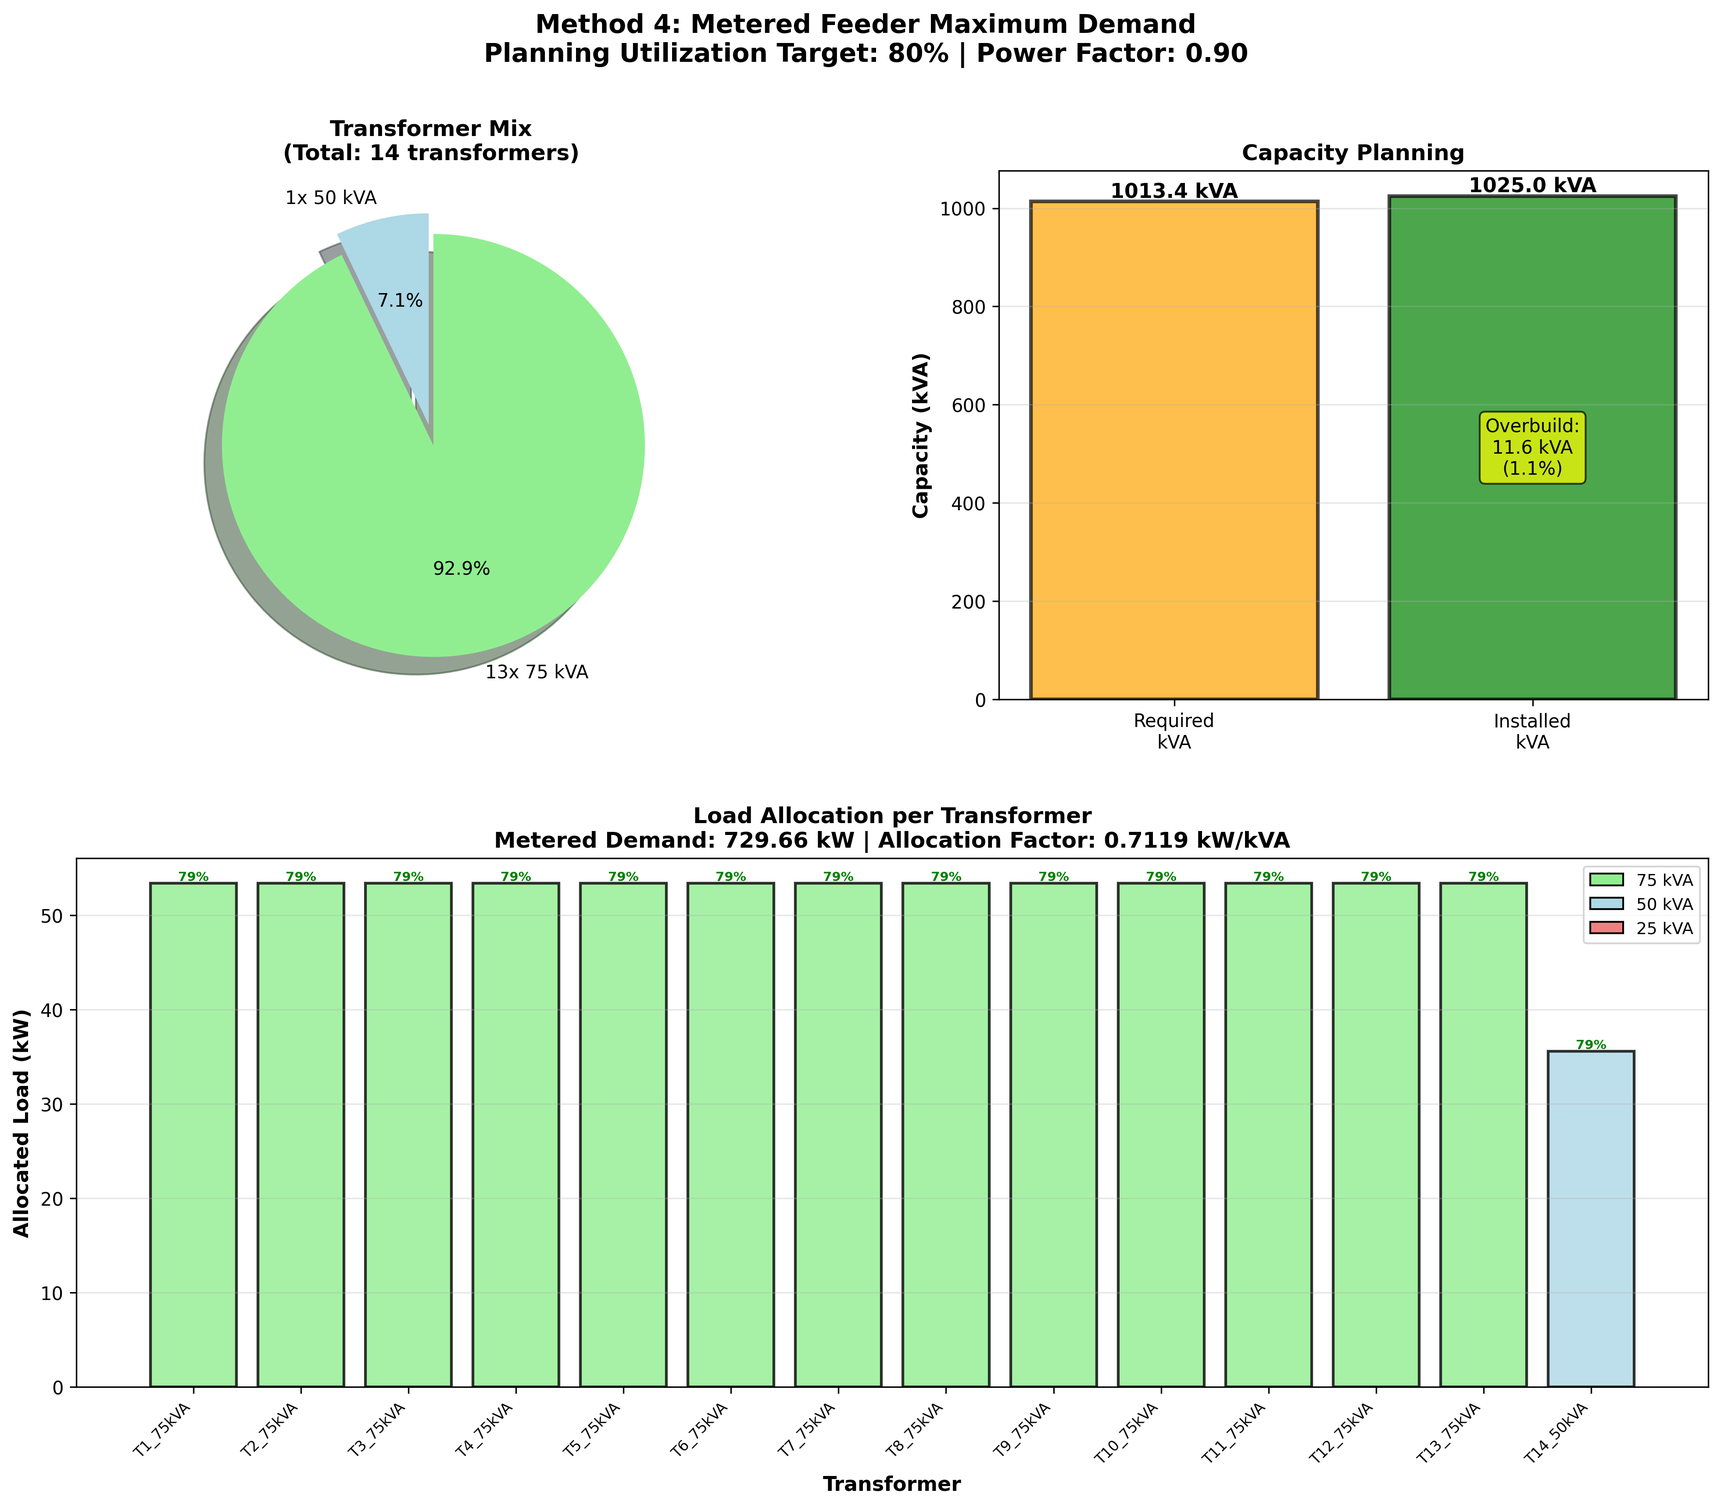
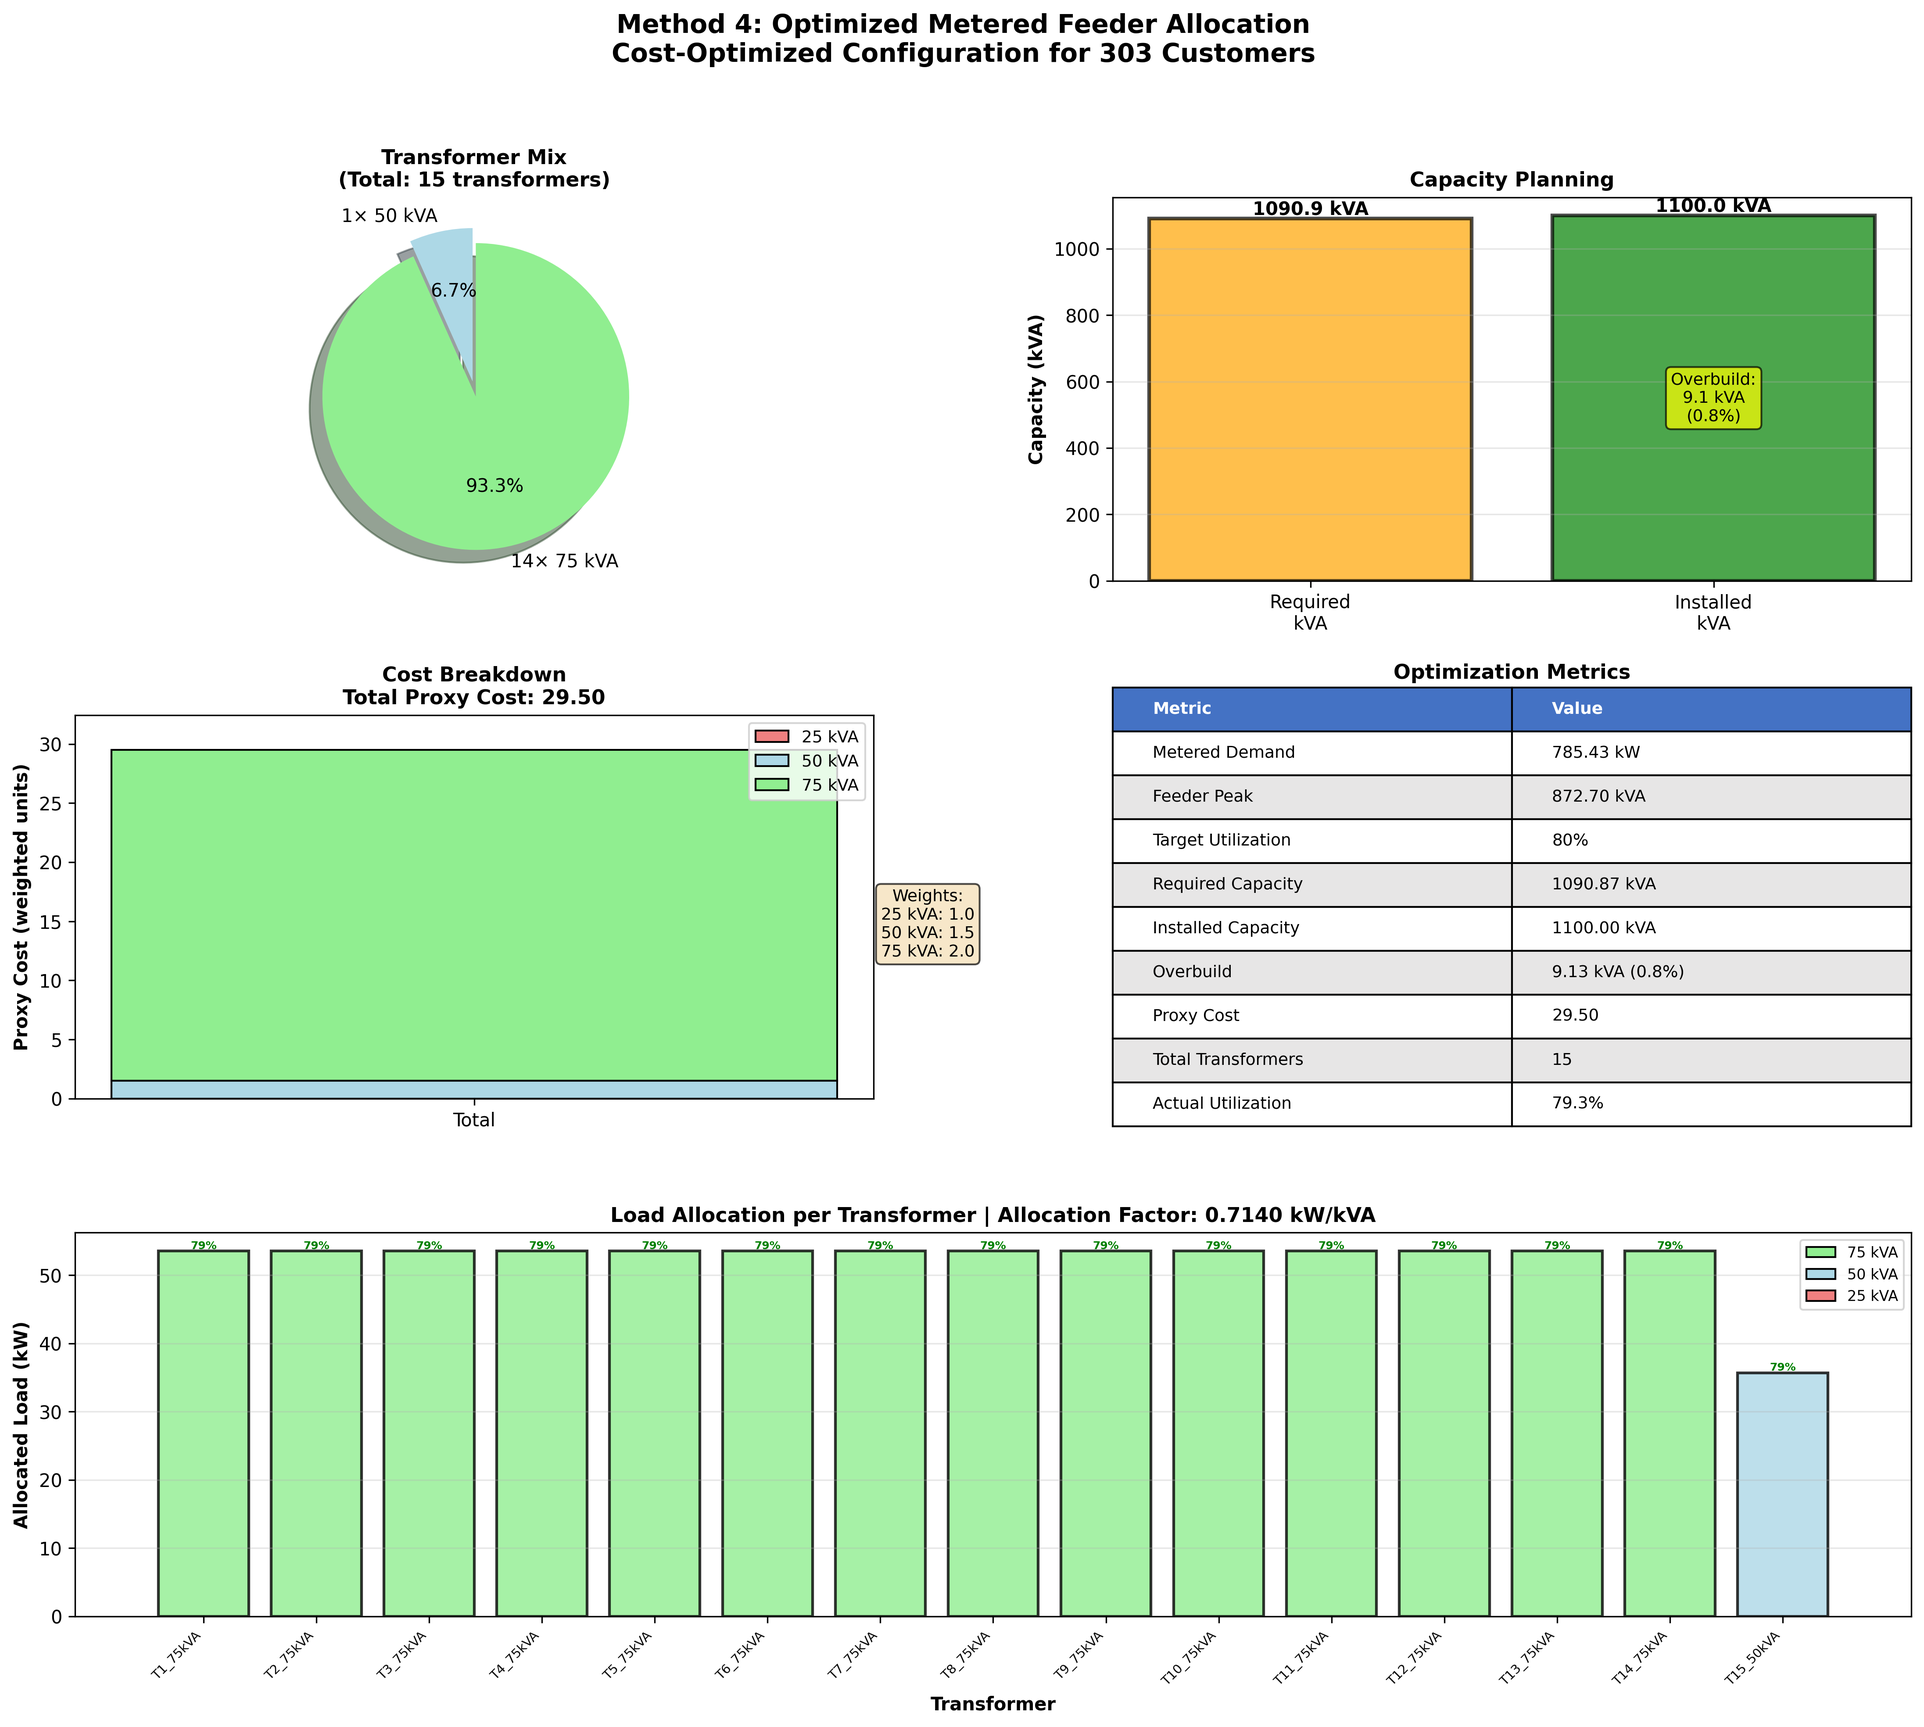
I tried adding weights in the api script but the results didn't change much. Revert back to the last comment the next time you work on this again

diff --git a/resstock_2025/plots.py b/resstock_2025/plots.py
@@ -259,7 +259,7 @@ def transformer_load_management_plot (data, regr_results):
 
 def plot_method4_allocation(plan_file, allocation_file, summary_file):
     """
-    Plot Method 4: Metered Feeder Allocation with Optimization
+    Plot Method 4: Metered Feeder Allocation with Cost Optimization
     
     Args:
         plan_file: path to method4_transformer_plan.csv
@@ -272,24 +272,43 @@ def plot_method4_allocation(plan_file, allocation_file, summary_file):
     allocation_df = pd.read_csv(allocation_file)
     summary_df = pd.read_csv(summary_file)
     
-    # Create figure with 4 subplots
-    fig = plt.figure(figsize=(16, 12))
-    gs = fig.add_gridspec(2, 2, hspace=0.3, wspace=0.3)
+    # Create figure with 5 subplots
+    fig = plt.figure(figsize=(18, 14))
+    gs = fig.add_gridspec(3, 2, hspace=0.35, wspace=0.3)
     
-    ax1 = fig.add_subplot(gs[0, 0])  # Top left
-    ax2 = fig.add_subplot(gs[0, 1])  # Top right
-    ax3 = fig.add_subplot(gs[1, :])  # Bottom, full width
+    ax1 = fig.add_subplot(gs[0, 0])  # Top left - Pie chart
+    ax2 = fig.add_subplot(gs[0, 1])  # Top right - Capacity
+    ax3 = fig.add_subplot(gs[1, 0])  # Middle left - Cost breakdown
+    ax4 = fig.add_subplot(gs[1, 1])  # Middle right - Optimization metrics
+    ax5 = fig.add_subplot(gs[2, :])  # Bottom - Allocations
+    
+    # Extract key values
+    n_25 = plan_df['n_25kva'].iloc[0]
+    n_50 = plan_df['n_50kva'].iloc[0]
+    n_75 = plan_df['n_75kva'].iloc[0]
+    
+    required_kva = plan_df['required_installed_kva'].iloc[0]
+    installed_kva = plan_df['installed_kva'].iloc[0]
+    overbuild_kva = plan_df['overbuild_kva'].iloc[0]
+    proxy_cost = plan_df['proxy_cost'].iloc[0]
+    metered_kw = plan_df['metered_demand_kw'].iloc[0]
+    pf = plan_df['pf'].iloc[0]
+    uf_target = plan_df['uf_target'].iloc[0]
+    
+    # Parse weights from string if needed
+    weights_str = plan_df['weights'].iloc[0]
+    if isinstance(weights_str, str):
+        import ast
+        weights = ast.literal_eval(weights_str)
+    else:
+        weights = {25.0: 1.0, 50.0: 2.2, 75.0: 3.6}  # Default
     
     # ============================================================
     # Plot 1: Transformer Mix (Pie Chart)
     # ============================================================
     
-    n_25 = plan_df['n_25kva'].iloc[0]
-    n_50 = plan_df['n_50kva'].iloc[0]
-    n_75 = plan_df['n_75kva'].iloc[0]
-    
     sizes = [n_25, n_50, n_75]
-    labels = [f'{n_25}x 25 kVA', f'{n_50}x 50 kVA', f'{n_75}x 75 kVA']
+    labels = [f'{n_25}× 25 kVA', f'{n_50}× 50 kVA', f'{n_75}× 75 kVA']
     colors = ['lightcoral', 'lightblue', 'lightgreen']
     explode = (0.05, 0.05, 0.05)
     
@@ -302,17 +321,11 @@ def plot_method4_allocation(plan_file, allocation_file, summary_file):
     ax1.pie(non_zero_sizes, labels=non_zero_labels, colors=non_zero_colors,
             autopct='%1.1f%%', explode=non_zero_explode, shadow=True, startangle=90)
     ax1.set_title(f'Transformer Mix\n(Total: {n_25 + n_50 + n_75} transformers)', 
-                  fontweight='bold', fontsize=12)
+                  fontweight='bold', fontsize=11)
     
     # ============================================================
     # Plot 2: Capacity Overview (Bar Chart)
     # ============================================================
-    
-    required_kva = plan_df['required_installed_kva'].iloc[0]
-    installed_kva = plan_df['installed_kva'].iloc[0]
-    overbuild_kva = plan_df['overbuild_kva'].iloc[0]
-    metered_kw = plan_df['metered_demand_kw'].iloc[0]
-    pf = plan_df['pf'].iloc[0]
     
     categories = ['Required\nkVA', 'Installed\nkVA']
     values = [required_kva, installed_kva]
@@ -321,25 +334,85 @@ def plot_method4_allocation(plan_file, allocation_file, summary_file):
     bars = ax2.bar(categories, values, color=colors_bar, edgecolor='black', 
                    linewidth=2, alpha=0.7)
     
-    # Add value labels on bars
     for bar, val in zip(bars, values):
         height = bar.get_height()
         ax2.text(bar.get_x() + bar.get_width()/2., height,
                 f'{val:.1f} kVA',
-                ha='center', va='bottom', fontweight='bold', fontsize=11)
+                ha='center', va='bottom', fontweight='bold', fontsize=10)
     
-    # Add overbuild annotation
     ax2.text(1, installed_kva * 0.5, 
              f'Overbuild:\n{overbuild_kva:.1f} kVA\n({overbuild_kva/required_kva*100:.1f}%)',
-             ha='center', va='center', fontsize=10,
+             ha='center', va='center', fontsize=9,
              bbox=dict(boxstyle='round', facecolor='yellow', alpha=0.7))
     
-    ax2.set_ylabel('Capacity (kVA)', fontweight='bold', fontsize=11)
-    ax2.set_title('Capacity Planning', fontweight='bold', fontsize=12)
+    ax2.set_ylabel('Capacity (kVA)', fontweight='bold', fontsize=10)
+    ax2.set_title('Capacity Planning', fontweight='bold', fontsize=11)
     ax2.grid(axis='y', alpha=0.3)
     
     # ============================================================
-    # Plot 3: Individual Transformer Allocations (Bar Chart)
+    # Plot 3: Cost Breakdown (Stacked Bar)
+    # ============================================================
+    
+    cost_25 = n_25 * weights[25.0]
+    cost_50 = n_50 * weights[50.0]
+    cost_75 = n_75 * weights[75.0]
+    
+    ax3.bar('Total', cost_25, color='lightcoral', label='25 kVA', edgecolor='black')
+    ax3.bar('Total', cost_50, bottom=cost_25, color='lightblue', label='50 kVA', edgecolor='black')
+    ax3.bar('Total', cost_75, bottom=cost_25+cost_50, color='lightgreen', label='75 kVA', edgecolor='black')
+    
+    ax3.set_ylabel('Proxy Cost (weighted units)', fontweight='bold', fontsize=10)
+    ax3.set_title(f'Cost Breakdown\nTotal Proxy Cost: {proxy_cost:.2f}', 
+                  fontweight='bold', fontsize=11)
+    ax3.legend(loc='upper right', fontsize=9)
+    ax3.set_ylim([0, proxy_cost * 1.1])
+    
+    # Add cost weights as text
+    weights_text = f"Weights:\n25 kVA: {weights[25.0]:.1f}\n50 kVA: {weights[50.0]:.1f}\n75 kVA: {weights[75.0]:.1f}"
+    ax3.text(0.5, proxy_cost * 0.5, weights_text,
+             ha='center', va='center', fontsize=9,
+             bbox=dict(boxstyle='round', facecolor='wheat', alpha=0.7))
+    
+    # ============================================================
+    # Plot 4: Optimization Metrics (Table-style)
+    # ============================================================
+    
+    ax4.axis('off')
+    
+    metrics_data = [
+        ['Metric', 'Value'],
+        ['Metered Demand', f'{metered_kw:.2f} kW'],
+        ['Feeder Peak', f'{metered_kw/pf:.2f} kVA'],
+        ['Target Utilization', f'{uf_target*100:.0f}%'],
+        ['Required Capacity', f'{required_kva:.2f} kVA'],
+        ['Installed Capacity', f'{installed_kva:.2f} kVA'],
+        ['Overbuild', f'{overbuild_kva:.2f} kVA ({overbuild_kva/required_kva*100:.1f}%)'],
+        ['Proxy Cost', f'{proxy_cost:.2f}'],
+        ['Total Transformers', f'{n_25 + n_50 + n_75}'],
+        ['Actual Utilization', f'{(metered_kw/pf)/installed_kva*100:.1f}%']
+    ]
+    
+    table = ax4.table(cellText=metrics_data, cellLoc='left', loc='center',
+                     colWidths=[0.5, 0.5])
+    table.auto_set_font_size(False)
+    table.set_fontsize(9)
+    table.scale(1, 2)
+    
+    # Style header row
+    for i in range(2):
+        table[(0, i)].set_facecolor('#4472C4')
+        table[(0, i)].set_text_props(weight='bold', color='white')
+    
+    # Alternate row colors
+    for i in range(1, len(metrics_data)):
+        for j in range(2):
+            if i % 2 == 0:
+                table[(i, j)].set_facecolor('#E7E6E6')
+    
+    ax4.set_title('Optimization Metrics', fontweight='bold', fontsize=11, pad=20)
+    
+    # ============================================================
+    # Plot 5: Individual Transformer Allocations
     # ============================================================
     
     transformer_ids = allocation_df['transformer_id'].tolist()
@@ -347,30 +420,28 @@ def plot_method4_allocation(plan_file, allocation_file, summary_file):
     utilizations = allocation_df['utilization_factor'].tolist()
     kva_ratings = allocation_df['kva_rating'].tolist()
     
-    # Color by transformer size
     bar_colors = ['lightcoral' if kva == 25.0 else 'lightblue' if kva == 50.0 else 'lightgreen' 
                   for kva in kva_ratings]
     
-    bars3 = ax3.bar(range(len(transformer_ids)), allocated_kw, color=bar_colors,
+    bars5 = ax5.bar(range(len(transformer_ids)), allocated_kw, color=bar_colors,
                     edgecolor='black', linewidth=1.5, alpha=0.8)
     
-    ax3.set_xlabel('Transformer', fontweight='bold', fontsize=11)
-    ax3.set_ylabel('Allocated Load (kW)', fontweight='bold', fontsize=11)
-    ax3.set_title(f'Load Allocation per Transformer\n'
-                  f'Metered Demand: {metered_kw:.2f} kW | '
+    ax5.set_xlabel('Transformer', fontweight='bold', fontsize=10)
+    ax5.set_ylabel('Allocated Load (kW)', fontweight='bold', fontsize=10)
+    ax5.set_title(f'Load Allocation per Transformer | '
                   f'Allocation Factor: {metered_kw/installed_kva:.4f} kW/kVA',
-                  fontweight='bold', fontsize=12)
-    ax3.set_xticks(range(len(transformer_ids)))
-    ax3.set_xticklabels(transformer_ids, rotation=45, ha='right', fontsize=8)
-    ax3.grid(axis='y', alpha=0.3)
+                  fontweight='bold', fontsize=11)
+    ax5.set_xticks(range(len(transformer_ids)))
+    ax5.set_xticklabels(transformer_ids, rotation=45, ha='right', fontsize=7)
+    ax5.grid(axis='y', alpha=0.3)
     
-    # Add utilization labels on bars
-    for i, (bar, util) in enumerate(zip(bars3, utilizations)):
+    # Add utilization labels
+    for i, (bar, util) in enumerate(zip(bars5, utilizations)):
         height = bar.get_height()
         color = 'green' if util <= 1.0 else 'red'
-        ax3.text(bar.get_x() + bar.get_width()/2., height,
+        ax5.text(bar.get_x() + bar.get_width()/2., height,
                 f'{util*100:.0f}%',
-                ha='center', va='bottom', fontsize=7, color=color, fontweight='bold')
+                ha='center', va='bottom', fontsize=6, color=color, fontweight='bold')
     
     # Legend
     from matplotlib.patches import Patch
@@ -379,17 +450,38 @@ def plot_method4_allocation(plan_file, allocation_file, summary_file):
         Patch(facecolor='lightblue', edgecolor='black', label='50 kVA'),
         Patch(facecolor='lightcoral', edgecolor='black', label='25 kVA')
     ]
-    ax3.legend(handles=legend_elements, loc='upper right', fontsize=9)
+    ax5.legend(handles=legend_elements, loc='upper right', fontsize=8)
     
     # Overall title
-    uf_target = plan_df['uf_target'].iloc[0]
-    plt.suptitle(f'Method 4: Metered Feeder Maximum Demand\n'
-                 f'Planning Utilization Target: {uf_target*100:.0f}% | Power Factor: {pf:.2f}',
+    plt.suptitle(f'Method 4: Optimized Metered Feeder Allocation\n'
+                 f'Cost-Optimized Configuration for {summary_df["total_customers_simulated"].iloc[0]} Customers',
                  fontsize=14, fontweight='bold')
     
-    plt.tight_layout ()
     plt.savefig('./method4.png', dpi=300, bbox_inches='tight')
     plt.show()
+    
+    # ============================================================
+    # Print Summary
+    # ============================================================
+    print("\n" + "="*70)
+    print("METHOD 4: COST-OPTIMIZED FEEDER ALLOCATION")
+    print("="*70)
+    print(f"Customers: {summary_df['total_customers_simulated'].iloc[0]}")
+    print(f"Metered Demand: {metered_kw:.2f} kW")
+    print(f"\nOptimization Objective: Minimize (Overbuild, Cost, Count)")
+    print(f"  Cost Weights: 25kVA={weights[25.0]:.1f}, 50kVA={weights[50.0]:.1f}, 75kVA={weights[75.0]:.1f}")
+    print(f"\nOptimal Configuration:")
+    print(f"  {n_75}× 75 kVA (cost: {cost_75:.2f})")
+    print(f"  {n_50}× 50 kVA (cost: {cost_50:.2f})")
+    print(f"  {n_25}× 25 kVA (cost: {cost_25:.2f})")
+    print(f"  Total: {n_25 + n_50 + n_75} transformers")
+    print(f"  Proxy Cost: {proxy_cost:.2f}")
+    print(f"\nCapacity:")
+    print(f"  Required: {required_kva:.2f} kVA")
+    print(f"  Installed: {installed_kva:.2f} kVA")
+    print(f"  Overbuild: {overbuild_kva:.2f} kVA ({overbuild_kva/required_kva*100:.1f}%)")
+    print(f"\nActual Utilization: {(metered_kw/pf)/installed_kva*100:.1f}%")
+    print("="*70)
 
 filename = check_file (method='method4')
 

diff --git a/resstock_2025/load_allocations_api.py b/resstock_2025/load_allocations_api.py
@@ -1,11 +1,11 @@
 # Standard Python Libraries that we'll use in this script:
-import os
+import math
 import click
 import numpy as np
 import pandas as pd
 from scipy import stats
-from pprint import pprint as pp
 from pathlib import Path
+from pprint import pprint as pp
 
 # Calling my methods (all of these methods are Python files inside this folder):
 from config import load_config
@@ -243,7 +243,7 @@ def method3_regr (results):
 
     return regression_results
 
-def _choose_transformer_mix (required_kva:float, sizes=(25.0, 50.0, 75.0)):
+def _choose_transformer_mix (required_kva:float, sizes=(25.0, 50.0, 75.0), weights=None):
     """
     Find an integer count for each transformer size (n25, n50, n75) that meet or exceed
     the required kVA. 
@@ -251,18 +251,32 @@ def _choose_transformer_mix (required_kva:float, sizes=(25.0, 50.0, 75.0)):
     :param required_kva: the max. diversified demand
     :type required_kva: float
     :param sizes: chosen transformer sizes
+    :param weights: a proxy cost where we prefer smaller size transformers:
+        for instance, population per transformers is n25, n50, and n75
+        This poopulation is multiplied by weights (large weights for bigger transformers)
+        So the higher the weight, the less likely that the transformer will be chosen
+    
+    :param slack is the allowable range to be exceeded. <-- I don't think it is important but I'll try it
     """
 
     s25, s50, s75 = sizes # rated kva for each transformer
+
     best = None
 
+    if weights is None:
+        # random weights - kept trying things and this what I came up with. They can be tuned but not important for now
+        weights = {25.0: 1.0, 50.0: 1.5, 75.0:2}
+
+    w25, w50, w75 = weights[s25], weights[s50], weights[s75]
+
+    # target = max(0.0, required_kva - slack_kva)
     # The maximum allowable number of customers for each transformer (the worst case)
-    max_n25 = int(np.ceil (required_kva/s25)) + 2
-    max_n50 = int(np.ceil (required_kva/s50)) + 2
-    max_n75 = int(np.ceil (required_kva/s75)) + 2
-    print(max_n25)
-    print(max_n50)
-    print(max_n75)
+    max_n25 = int(np.ceil (required_kva/s25)) + 4
+    max_n50 = int(np.ceil (required_kva/s50)) + 4
+    max_n75 = int(np.ceil (required_kva/s75)) + 4
+    # print(max_n25)
+    # print(max_n50)
+    # print(max_n75)
 
     for n75 in range (max_n75 + 1):
         for n50 in range(max_n50 + 1):
@@ -272,13 +286,15 @@ def _choose_transformer_mix (required_kva:float, sizes=(25.0, 50.0, 75.0)):
                 if installed < required_kva:
                     continue
                 overbuild = installed - required_kva
-                # print('installed: ', installed, 'required kVA: ', required_kva, 'overbuild? ', overbuild)
+                proxy_cost = n25*w25 + n50*w50 + n75*w75
                 n_total = n25 + n50 + n75
-                candidate = (overbuild, n_total, n75, n50, n25, installed)
+
+                # print('installed: ', installed, 'required kVA: ', required_kva, 'overbuild? ', overbuild)
+                candidate = (overbuild, proxy_cost, n_total, n75, n50, n25, installed)
                 if best is None or candidate < best:
                     best = candidate
     
-    overbuild, n_total, n75, n50, n25, installed = best
+    overbuild, proxy_cost, n_total, n75, n50, n25, installed = best
 
     return {
         "n_25kva": int(n25),
@@ -286,7 +302,9 @@ def _choose_transformer_mix (required_kva:float, sizes=(25.0, 50.0, 75.0)):
         "n_75kva": int(n75),
         "installed_kva": float(installed),
         "overbuild_kva": float(overbuild),
+        "proxy_cost": float(proxy_cost),
         "n_total_transformers": int(n_total),
+        "weights": dict(weights)
     }
 
 
@@ -328,7 +346,8 @@ def method4_metered_feeder_max_demand (cfg):
     required_installed_kva = feeder_peak_kva / UF
 
     # 3- Choose a transformer count:
-    plan = _choose_transformer_mix (required_kva=required_installed_kva, sizes=sizes)
+    plan = _choose_transformer_mix (required_kva=required_installed_kva, sizes=sizes,
+                                    weights={25.0: 1.0, 50.0: 1.5, 75.0:2})
 
     transformer_list = []
     tid = 1 # transformer ID
